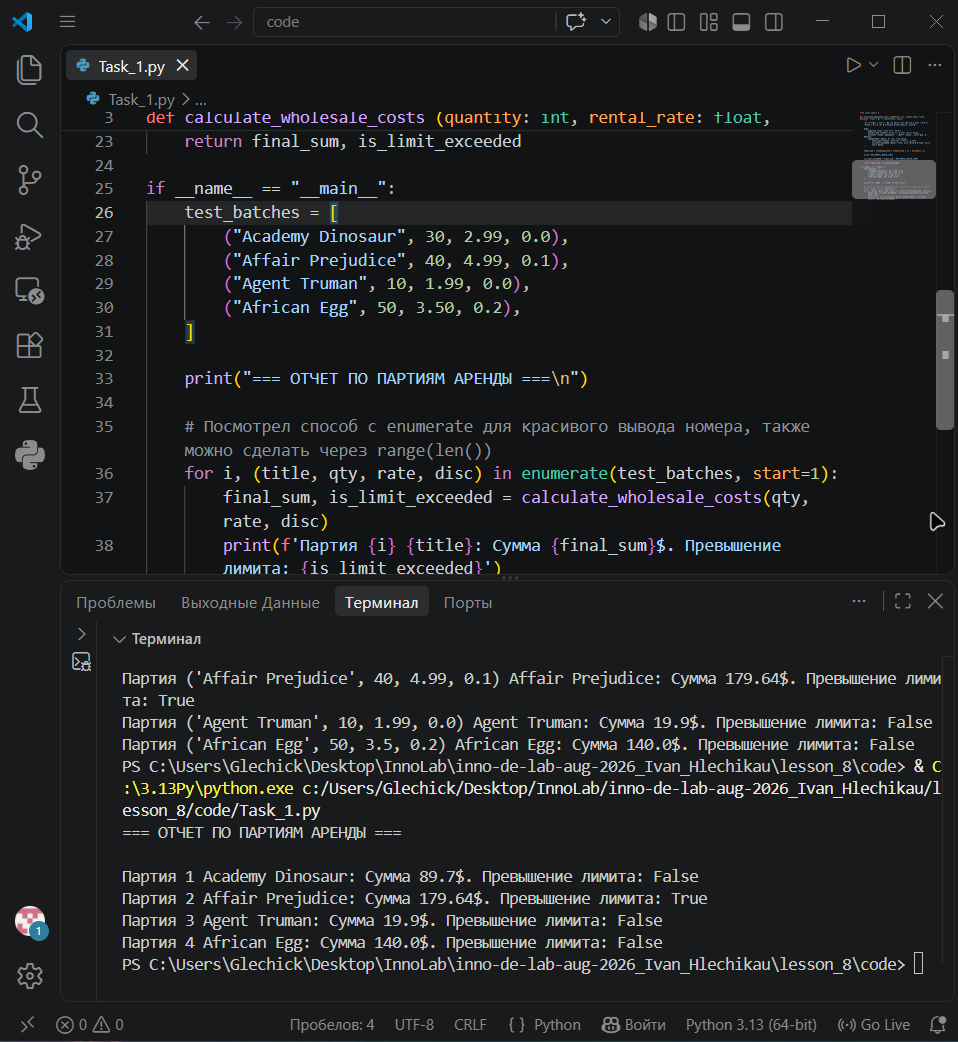
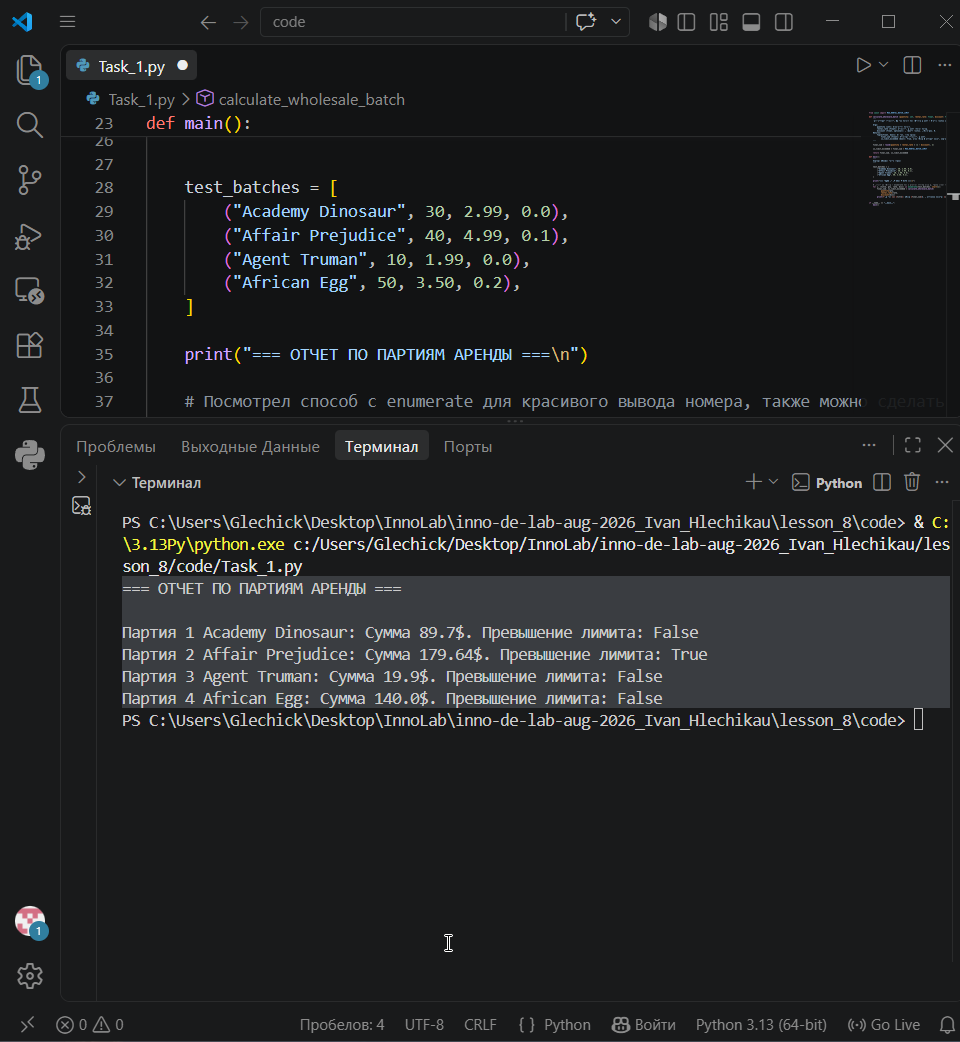
Исправлены замечания по поводу заданий, изменены скриншоты к заданиям

diff --git a/lesson_8/code/Task_1.py b/lesson_8/code/Task_1.py
@@ -1,6 +1,6 @@
 from const import MAX_RENTAL_BATCH_LIMIT
 
-def calculate_wholesale_costs (quantity: int, rental_rate: float, discount: float = 0) -> tuple[float, bool]:
+def calculate_wholesale_batch (quantity: int, rental_rate: float, discount: float = 0) -> tuple[float, bool]:
     '''
     Рассчитывает стоимость партии дисков для оптовой аренды с учетом скидки и проверяет превышение установленного лимита.
 
@@ -15,8 +15,6 @@ def calculate_wholesale_costs (quantity: int, rental_rate: float, discount: floa
     '''
 
     final_sum = round(quantity * rental_rate * (1 - discount), 2)
-
-    global MAX_RENTAL_BATCH_LIMIT
 
     is_limit_exceeded = final_sum > MAX_RENTAL_BATCH_LIMIT
 
@@ -38,7 +36,10 @@ def main():
 
     # Посмотрел способ с enumerate для красивого вывода номера, также можно сделать через range(len())
     for i, (title, qty, rate, disc) in enumerate(test_batches, start=1):
-        final_sum, is_limit_exceeded = calculate_wholesale_costs(qty, rate, disc)
+        final_sum, is_limit_exceeded = calculate_wholesale_batch(
+            quantity=qty, 
+            rental_rate=rate, 
+            discount=disc)
         print(f'Партия {i} {title}: Сумма {final_sum}$. Превышение лимита: {is_limit_exceeded}')
 
 

diff --git a/lesson_8/code/Task_3.py b/lesson_8/code/Task_3.py
@@ -25,13 +25,11 @@ def calculate_overdue_fine (film_name: str, days_overdue: any, fine_rate: float)
         numeric_days = float(days_overdue)
 
         total_fine = numeric_days * fine_rate
-         
-        global DEFAULT_RETURN_INDEX_BASE
-        
+                 
         return_index = DEFAULT_RETURN_INDEX_BASE /numeric_days
 
         # Успешный расчет
-        print(f'Фильм: "{film_name}" | Итоговый штраф: {total_fine:.2f}$ | Индекс: {return_index:.2f}')
+        print(f'Фильм: "{film_name}" | Итоговый штраф: {total_fine:.1f}$ | Индекс: {return_index:.1f}')
         return total_fine, return_index
 
     except TypeError as e:

diff --git a/lesson_8/code/Task_2.py b/lesson_8/code/Task_2.py
@@ -29,10 +29,7 @@ def performance_logger(func: callable) -> callable:
 
         result = func(*args, **kwargs)
 
-        global PERFORMANCE_LOG_PREFIX
-        global TIME_DECIMALS
-        
-        print(f'{PERFORMANCE_LOG_PREFIX} Функция "{func.__name__}" выполнена за <{(perf_counter() - start_time):.{TIME_DECIMALS}f}> сек.')
+        print(f'{PERFORMANCE_LOG_PREFIX} Функция "{func.__name__}" выполнена за {(perf_counter() - start_time):.{TIME_DECIMALS}f} сек.')
         return result
     return wrapper
 
